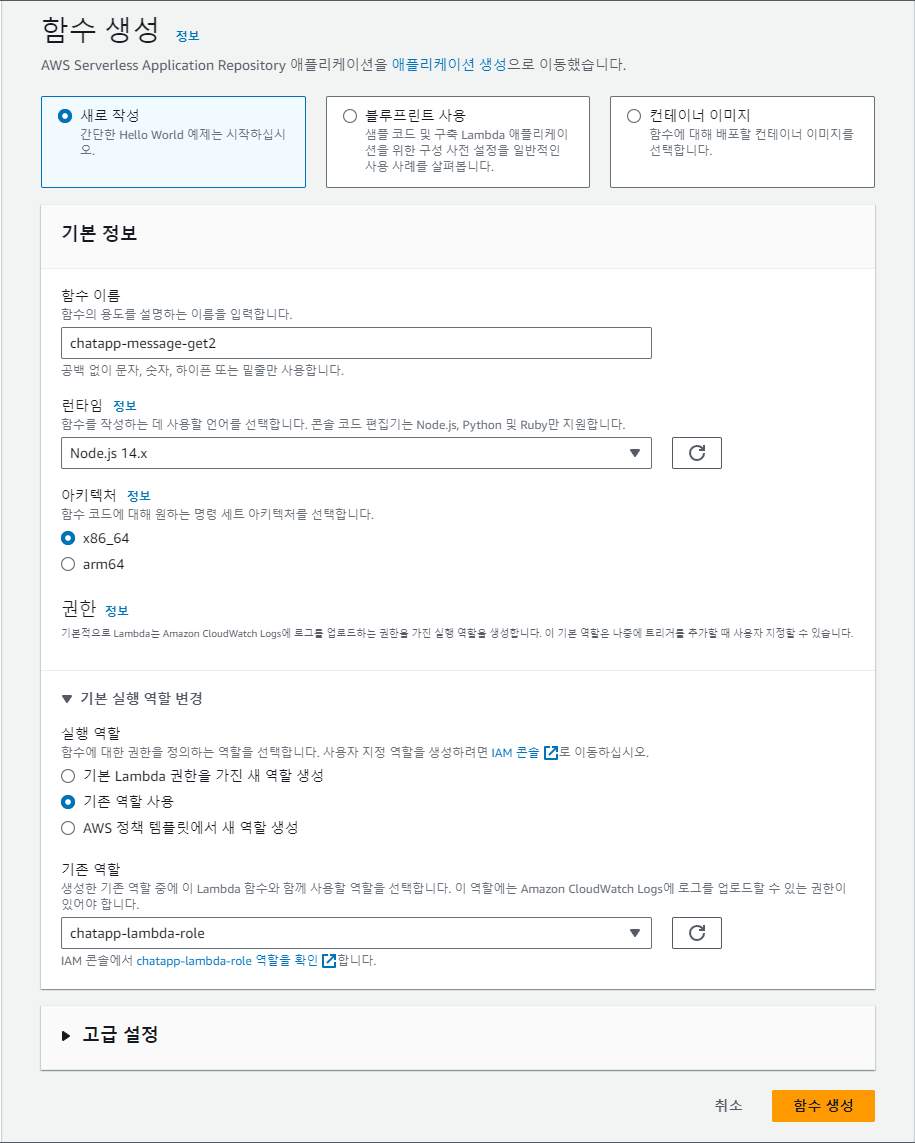
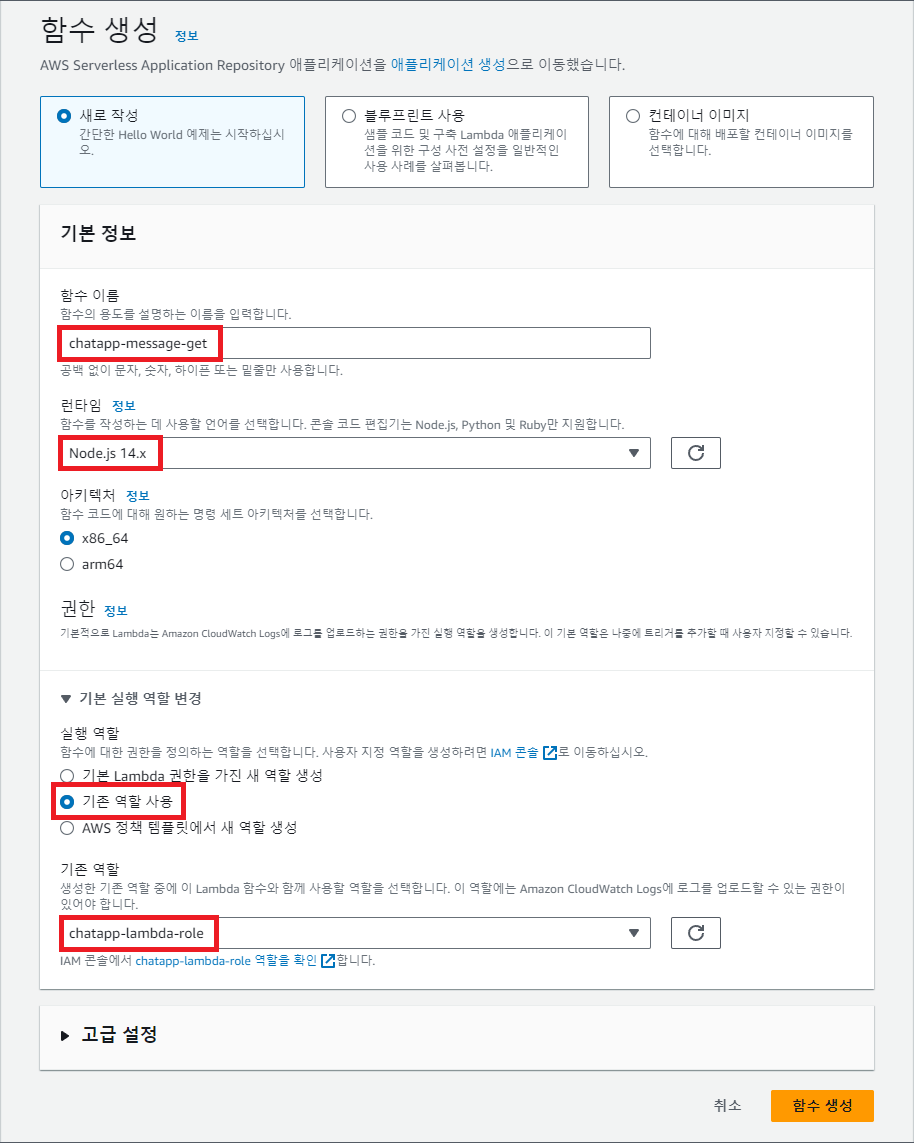
1

diff --git a/STUDY+RND/AWS/Chat (API+Lambda+DynamoDB)/1. Build Serverless Chat App with Amazon API Gateway, WebSocket API and AWS Lambda.md b/STUDY+RND/AWS/Chat (API+Lambda+DynamoDB)/1. Build Serverless Chat App with Amazon API Gateway, WebSocket API and AWS Lambda.md
@@ -165,3 +165,5 @@
 - ***채팅 메시지 목록을 가져오는 람다 만들기***
     - ***"함수 생성"***
         > ![](https://github.com/icodes-studio/wiki/blob/main/STUDY%2BRND/AWS/Chat%20(API%2BLambda%2BDynamoDB)/Assets/13.png)
+    - ***"함수이름"*** > *chatapp-message-get* > ***"런타임"*** > *Node.js 14.x* > ***"기존역할"*** > *chatapp-lambda-role*
+        > ![](https://github.com/icodes-studio/wiki/blob/main/STUDY%2BRND/AWS/Chat%20(API%2BLambda%2BDynamoDB)/Assets/14.png)
